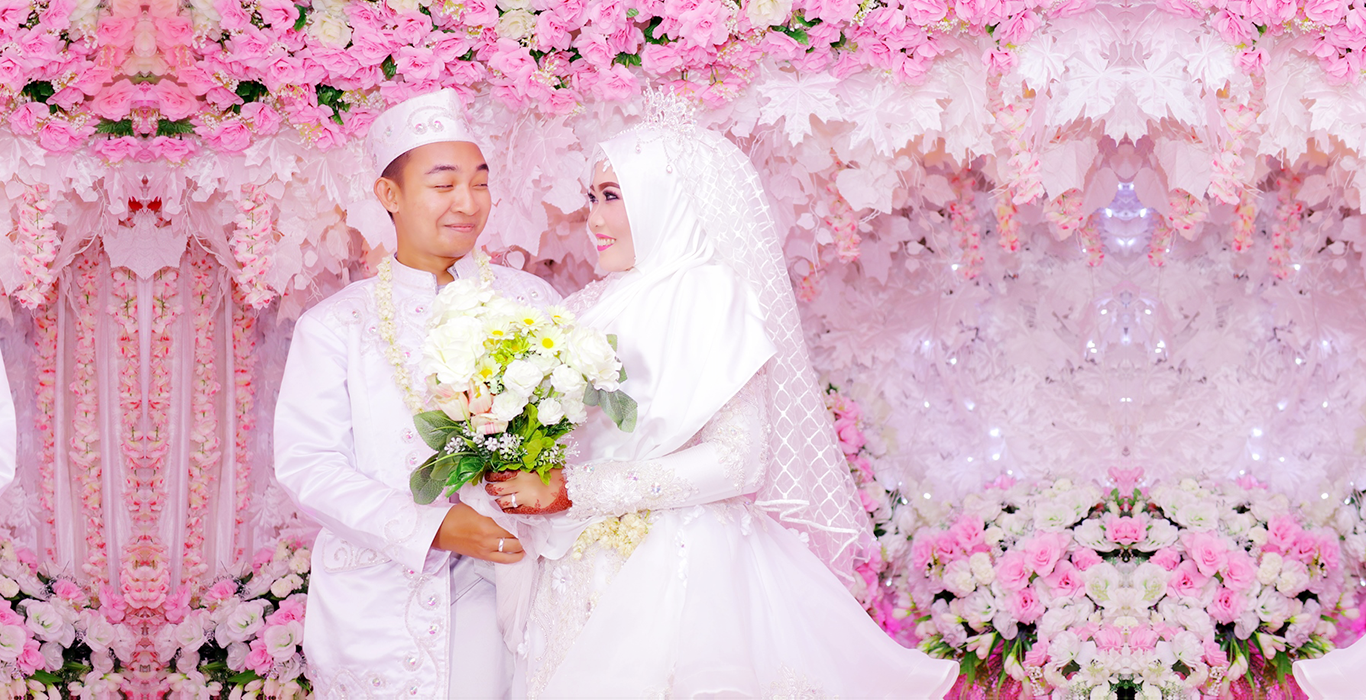
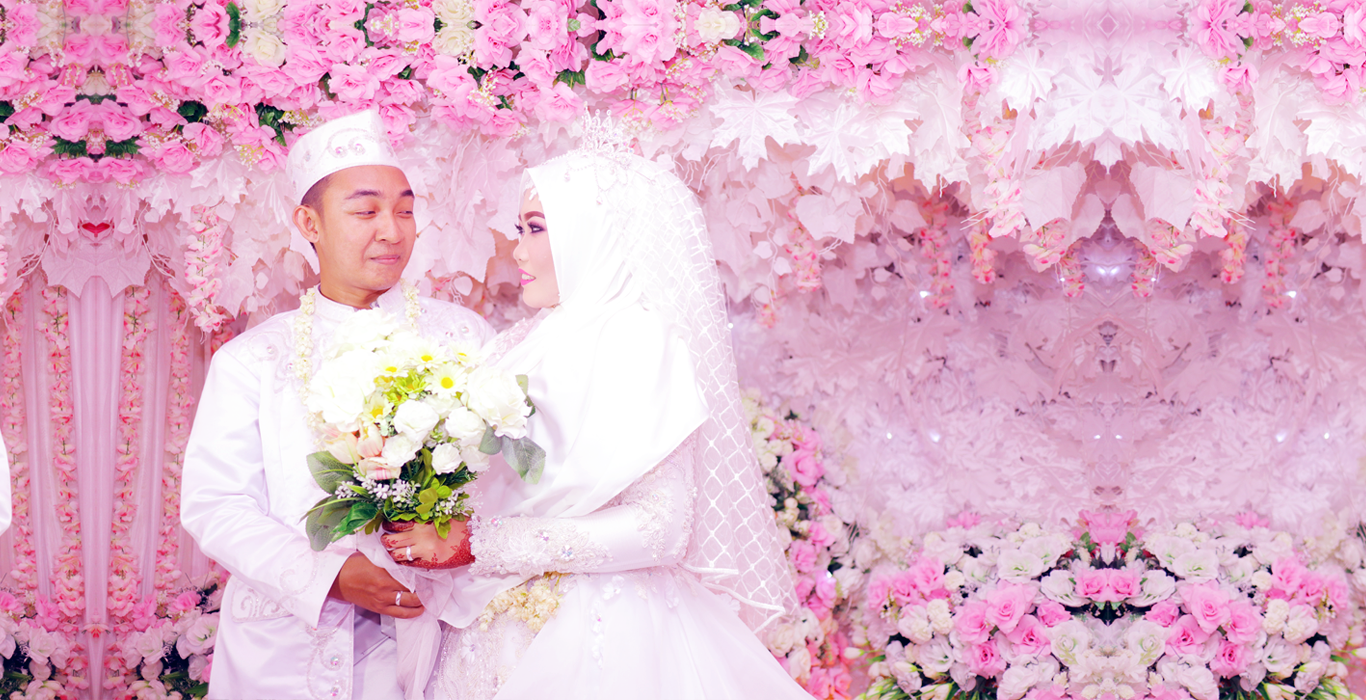
Add Gallery

diff --git a/index.html b/index.html
@@ -133,7 +133,7 @@
               </div>
               <div class="penganten-isi text-center text-md-right"
                 data-aos="fade-down"
-                >Kita lahir di bulan yang sama, di tahun yang sama, bersekolah di SMK yang sama dan sekarang saatnya untuk kita hidup bersama.</div>
+                >Kita lahir di bulan yang sama, di tahun yang sama, bersekolah di sekolah menengah kejuruan dengan jurusan yang sama dan sekarang saatnya untuk kita menjalani hidup bersama.</div>
               <div class="flex"></div>
               <a href="https://www.facebook.com/ayat.kyo" 
                 class="btn btn-secondary mt-3 text-bold text-uppercase w-100" 
@@ -166,7 +166,9 @@
               </div>
               <div class="penganten-isi text-center text-lg-left"
                 data-aos="fade-down"
-                >Kita berjalan diatas jalur cinta, di ujung jalan kita akan bertemu kembali.</div>
+                >
+                Kamu adalah setiap alasan, harapan dan mimpi yang pernah ku miliki, tak peduli apapun yang terjadi kita akan selalu bersama, hal terbaik dalam hidupku adalah saat bersama dirimu.
+              </div>
               <div class="flex"></div>
               <a href="https://www.facebook.com/mawad.28.MM1" 
                 class="btn btn-secondary mt-3 text-bold text-uppercase w-100"
@@ -294,7 +296,7 @@
             >Beautiful Moment</div>
           <div class="font-caveat-brush text-hitam font-bold bawah"
             data-aos="fade-down"
-            >is when you with me</div>
+            >is when we are together</div>
         </div>
       </div>
     </section>
@@ -314,67 +316,67 @@
         </div>
         <div class="row justify-content-center" id="galeri-foto">
           <div class="col-6 col-md-4 col-lg-3">
-            <a class="galeri-item" href="http://sachinchoolur.github.io/lightGallery/static/img/2-1600.jpg"
+            <a class="galeri-item" href="./assets/images/galeri/03.jpg"
               data-aos="fade-up"
               data-aos-delay="800"
               >
-              <img src="http://sachinchoolur.github.io/lightGallery/static/img/thumb-1.jpg" class="img-fluid">
+              <img src="./assets/images/galeri/thumbs_03.jpg" class="img-fluid">
             </a>
           </div>
           <div class="col-6 col-md-4 col-lg-3">
-            <a class="galeri-item" href="http://sachinchoolur.github.io/lightGallery/static/img/2-1600.jpg"
+            <a class="galeri-item" href="./assets/images/galeri/01.jpg"
               data-aos="fade-up"
               data-aos-delay="800"
               >
-              <img src="http://sachinchoolur.github.io/lightGallery/static/img/thumb-1.jpg" class="img-fluid">
+              <img src="./assets/images/galeri/thumbs_01.jpg" class="img-fluid">
             </a>
           </div>
           <div class="col-6 col-md-4 col-lg-3">
-            <a class="galeri-item" href="http://sachinchoolur.github.io/lightGallery/static/img/2-1600.jpg"
+            <a class="galeri-item" href="./assets/images/galeri/02.jpg"
               data-aos="fade-up"
               data-aos-delay="800"
               >
-              <img src="http://sachinchoolur.github.io/lightGallery/static/img/thumb-1.jpg" class="img-fluid">
+              <img src="./assets/images/galeri/thumbs_02.jpg" class="img-fluid">
             </a>
           </div>
           <div class="col-6 col-md-4 col-lg-3">
-            <a class="galeri-item" href="http://sachinchoolur.github.io/lightGallery/static/img/2-1600.jpg"
+            <a class="galeri-item" href="./assets/images/galeri/04.jpg"
               data-aos="fade-up"
               data-aos-delay="800"
               >
-              <img src="http://sachinchoolur.github.io/lightGallery/static/img/thumb-1.jpg" class="img-fluid">
+              <img src="./assets/images/galeri/thumbs_04.jpg" class="img-fluid">
             </a>
           </div>
           <div class="col-6 col-md-4 col-lg-3">
-            <a class="galeri-item" href="http://sachinchoolur.github.io/lightGallery/static/img/2-1600.jpg"
+            <a class="galeri-item" href="./assets/images/galeri/05.jpg"
               data-aos="fade-up"
               data-aos-delay="800"
               >
-              <img src="http://sachinchoolur.github.io/lightGallery/static/img/thumb-1.jpg" class="img-fluid">
+              <img src="./assets/images/galeri/thumbs_05.jpg" class="img-fluid">
             </a>
           </div>
           <div class="col-6 col-md-4 col-lg-3">
-            <a class="galeri-item" href="http://sachinchoolur.github.io/lightGallery/static/img/2-1600.jpg"
+            <a class="galeri-item" href="./assets/images/galeri/06.jpg"
               data-aos="fade-up"
               data-aos-delay="800"
               >
-              <img src="http://sachinchoolur.github.io/lightGallery/static/img/thumb-1.jpg" class="img-fluid">
+              <img src="./assets/images/galeri/thumbs_06.jpg" class="img-fluid">
             </a>
           </div>
           <div class="col-6 col-md-4 col-lg-3">
-            <a class="galeri-item" href="http://sachinchoolur.github.io/lightGallery/static/img/2-1600.jpg"
+            <a class="galeri-item" href="./assets/images/galeri/07.jpg"
               data-aos="fade-up"
               data-aos-delay="800"
               >
-              <img src="http://sachinchoolur.github.io/lightGallery/static/img/thumb-1.jpg" class="img-fluid">
+              <img src="./assets/images/galeri/thumbs_07.jpg" class="img-fluid">
             </a>
           </div>
           <div class="col-6 col-md-4 col-lg-3">
-            <a class="galeri-item" href="http://sachinchoolur.github.io/lightGallery/static/img/2-1600.jpg"
+            <a class="galeri-item" href="./assets/images/galeri/08.jpg"
               data-aos="fade-up"
               data-aos-delay="800"
               >
-              <img src="http://sachinchoolur.github.io/lightGallery/static/img/thumb-1.jpg" class="img-fluid">
+              <img src="./assets/images/galeri/thumbs_08.jpg" class="img-fluid">
             </a>
           </div>
         </div>

diff --git a/assets/css/main.css b/assets/css/main.css
@@ -54,7 +54,7 @@ section {
 .header #background {
   position: fixed;
   background-size: cover;
-  background-position-x: 35%;
+  background-position-x: 27%;
   width: 100%;
   height: calc(100vh + 50px);
   top: 0;

diff --git a/assets/js/main.js b/assets/js/main.js
@@ -179,7 +179,7 @@ AOS.init({
     easing: 'ease-out-back',
     delay: 400,
     duration: 600,
-    once: true,
+    // once: true,
     startEvent: 'mulaiAnimasi'
 });
 
